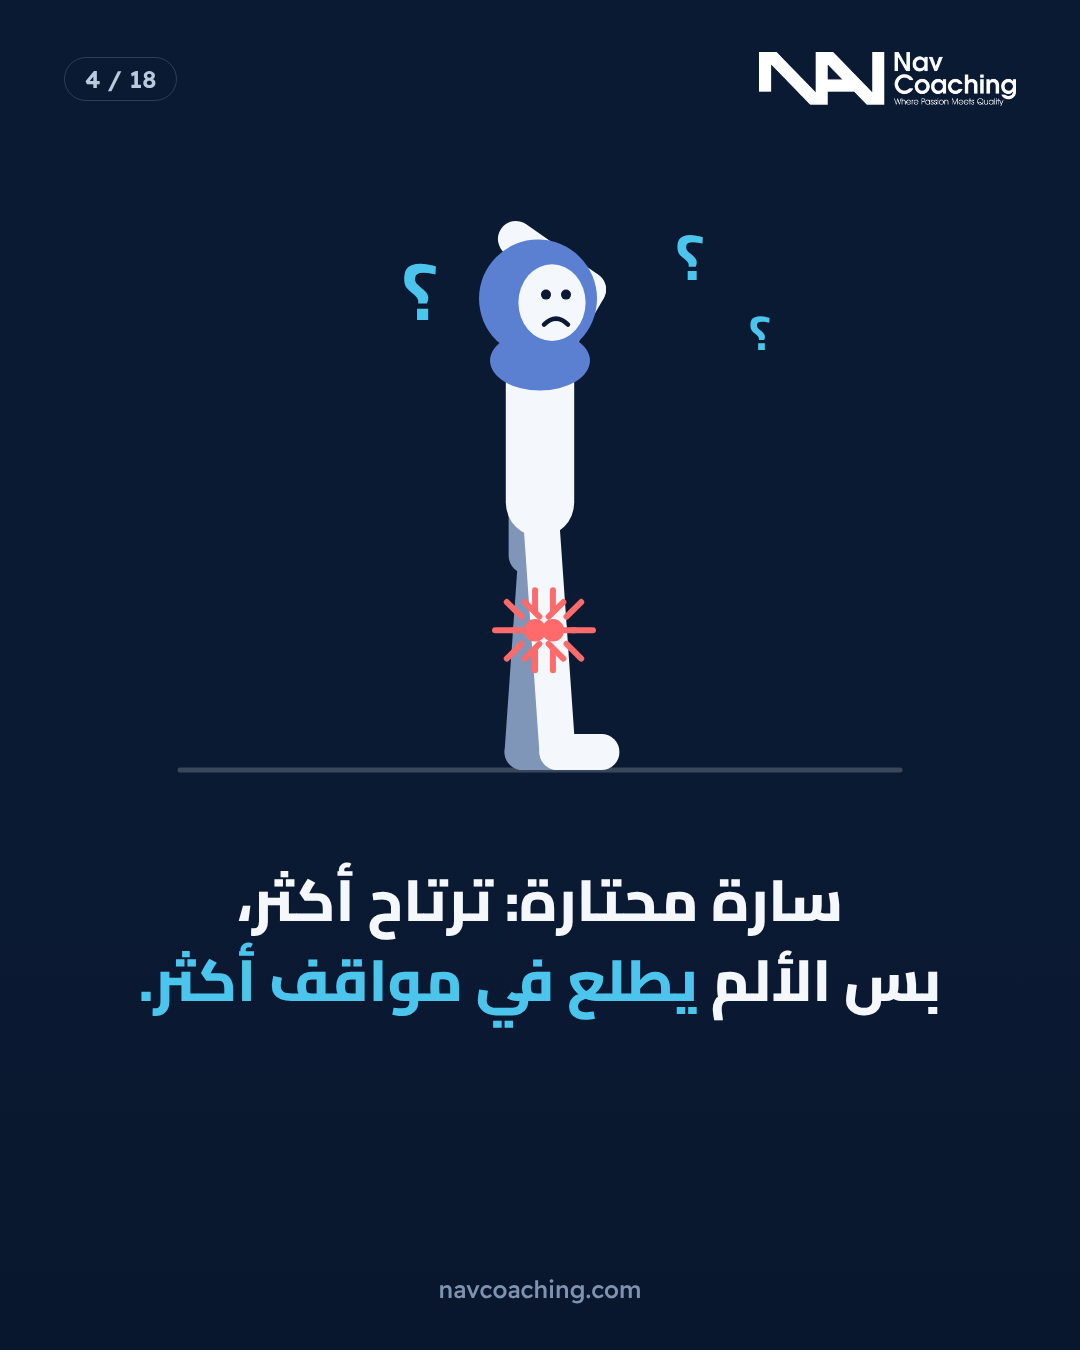
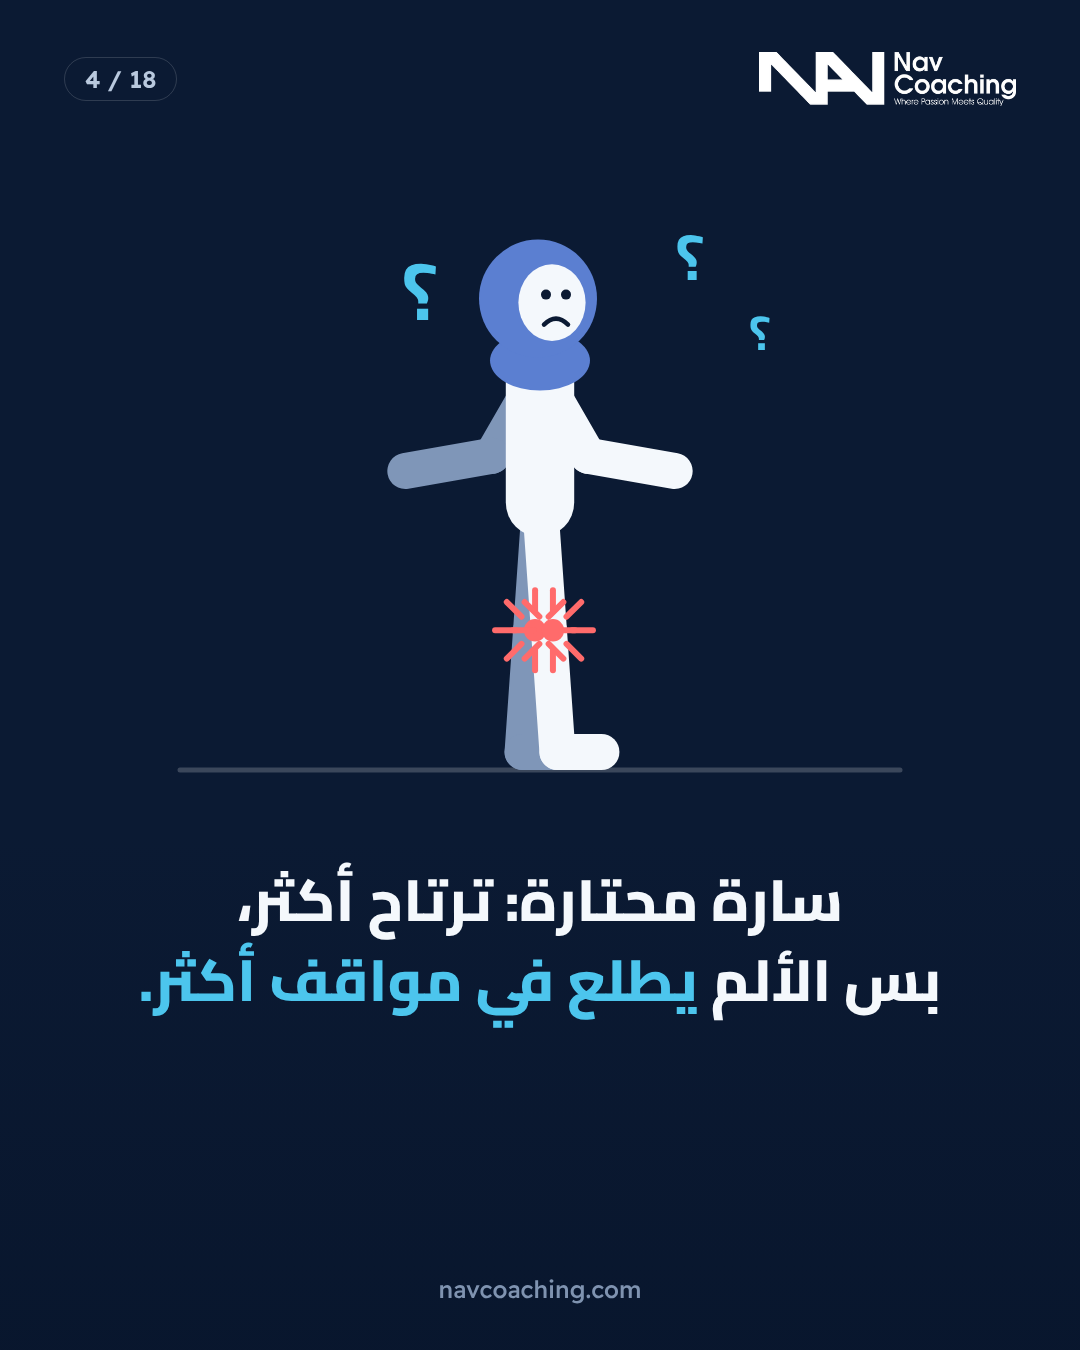
Knee carousel: promise on slide 1, save prompt after the ladder, larger chart/ladder labels
Also a shrug pose on slide 4 and Sara walking on the closing slide.

Claude-Session: https://claude.ai/code/session_014K8VAaJoHdbEmLTmDkRNee

diff --git a/instagram/knee/slides.html b/instagram/knee/slides.html
@@ -81,7 +81,7 @@ const ART={
  lungePain:()=>floorLine(F)+figure({x:520,floor:F,t:4,legs:[[-38,-92],[80,0]],arms:[[-6,8],[12,20]],pain:[1],mood:'sad'}).svg,
  sitPain:()=>{const f=figure({x:520,floor:F,t:-4,legs:[[86,0],[90,0]],arms:[[30,80],[40,85]],pain:[1],mood:'sad'});
    const seatY=f.H.y+22;return floorLine(F)+`<rect x="${f.H.x-70}" y="${seatY}" width="150" height="18" rx="6" fill="#40597f"/><rect x="${f.H.x-80}" y="${seatY-200}" width="18" height="${200+18}" rx="6" fill="#40597f"/><line x1="${f.H.x-55}" y1="${seatY+18}" x2="${f.H.x-55}" y2="${F}" stroke="#40597f" stroke-width="12"/><line x1="${f.H.x+60}" y1="${seatY+18}" x2="${f.H.x+60}" y2="${F}" stroke="#40597f" stroke-width="12"/>`+f.svg+clock(800,150)},
- confused:()=>floorLine(F)+figure({x:540,floor:F,t:0,legs:[[-4,-4],[4,4]],arms:[[-8,0],[150,235]],pain:[0,1],mood:'sad',s:1}).svg+label(420,170,'؟','#4cc5ed',80)+label(690,130,'؟','#4cc5ed',64)+label(760,200,'؟','#4cc5ed',48),
+ confused:()=>floorLine(F)+figure({x:540,floor:F,t:0,legs:[[-4,-4],[4,4]],arms:[[-30,-80],[30,80]],pain:[0,1],mood:'sad',s:1}).svg+label(420,170,'؟','#4cc5ed',80)+label(690,130,'؟','#4cc5ed',64)+label(760,200,'؟','#4cc5ed',48),
  stairs:()=>{const st=`<path d="M200 ${F} L200 ${F-90} L380 ${F-90} L380 ${F-180} L560 ${F-180} L560 ${F-270} L900 ${F-270} L900 ${F}z" fill="#1d3358" stroke="#ffffff40" stroke-width="3"/>`;
    const f=figure({x:390,floor:F-90,t:14,legs:[[-20,-12],[62,-8]],arms:[[30,60],[-20,-10]],pain:[0,1],mood:'sad',s:1});return st+f.svg},
  save:()=>{const f=figure({x:500,floor:F,t:0,legs:[[-4,-4],[4,4]],arms:[[-6,0],[120,130]],mood:'flat',s:1.05});
@@ -91,18 +91,18 @@ const ART={
    g+=`<path d="M${cx+r*Math.cos(35*R)} ${cy-r*Math.sin(35*R)} A${r} ${r} 0 0 1 ${cx+r} ${cy}" fill="none" stroke="#ff6b6b" stroke-width="34" stroke-linecap="round"/>`;
    const a=22*R;g+=`<line x1="${cx}" y1="${cy}" x2="${cx+(r-60)*Math.cos(a)}" y2="${cy-(r-60)*Math.sin(a)}" stroke="#f4f8fc" stroke-width="16" stroke-linecap="round"/><circle cx="${cx}" cy="${cy}" r="26" fill="#f4f8fc"/>`;
    g+=label(cx+r,cy+70,'عالية')+label(cx-r,cy+70,'منخفضة')+label(cx,cy+140,'حساسية الركبة','#f4f8fc',40);return g},
- chart:()=>{let g='';const x0=230,x1=900,y0=110,y1=600;
+ chart:()=>{let g='';const x0=250,x1=900,y0=110,y1=600;
    g+=`<line x1="${x0}" y1="${y0}" x2="${x0}" y2="${y1}" stroke="#ffffff55" stroke-width="5"/><line x1="${x0}" y1="${y1}" x2="${x1}" y2="${y1}" stroke="#ffffff55" stroke-width="5"/>`;
    const lv=[['السكوات',230],['الدرج',380],['الجلوس',500]];
-   lv.forEach(([t,y])=>{g+=`<line x1="${x0}" y1="${y}" x2="${x1}" y2="${y}" stroke="#ffffff35" stroke-width="3" stroke-dasharray="12 12"/>`+`<text x="${x0-18}" y="${y+12}" text-anchor="end" font-family="Cairo" font-weight="700" font-size="30" fill="#b9c9de">${t}</text>`});
+   lv.forEach(([t,y])=>{g+=`<line x1="${x0}" y1="${y}" x2="${x1}" y2="${y}" stroke="#ffffff35" stroke-width="3" stroke-dasharray="12 12"/>`+`<text x="${x0-18}" y="${y+12}" text-anchor="end" direction="ltr" font-family="Cairo" font-weight="700" font-size="36" fill="#b9c9de">${t}</text>`});
    g+=`<path d="M${x0+10} 135 C 480 150, 640 380, ${x1-20} 585" fill="none" stroke="#4cc5ed" stroke-width="12" stroke-linecap="round"/>`;
    g+=burst(390,230,34)+burst(612,380,34)+burst(766,500,34);
-   g+=label(700,120,'قدرة ركبتك على التحمّل','#4cc5ed',32)+label((x0+x1)/2,y1+60,'كل ما طالت مدة تجنّب الحمل ←','#b9c9de',32);return g},
- ladder:()=>{let g='';const n=7,w=96,h=58,base=600,xr=890;const names=['ثبات<br>بالدفع','ثبات<br>بالمقاومة','نزول<br>بطيء','مدى<br>قصير','مدى<br>أعمق','سرعة','قفز<br>واتجاهات'];
+   g+=label(690,118,'قدرة الركبة على التحمّل','#4cc5ed',36)+label((x0+x1)/2,y1+62,'كل ما طالت مدة تجنّب الحمل ←','#b9c9de',36);return g},
+ ladder:()=>{let g='';const n=7,w=112,h=58,base=610,xr=950;const names=['ثبات<br>بالدفع','ثبات<br>بالمقاومة','نزول<br>بطيء','مدى<br>قصير','مدى<br>أعمق','سرعة','قفز<br>واتجاهات'];
    let d=`M${xr} ${base}`;for(let i=0;i<n;i++){const x=xr-i*w;d+=` L${x} ${base-(i+1)*h} L${x-w} ${base-(i+1)*h}`}d+=` L${xr-n*w} ${base} z`;
    g+=`<path d="${d}" fill="#1d3358" stroke="#ffffff40" stroke-width="3"/>`;
-   for(let i=0;i<n;i++){const x=xr-i*w-w/2,y=base-(i+1)*h;g+=label(x,y+44,i+1,'#4cc5ed',34);
-     names[i].split('<br>').forEach((t,j,a)=>{g+=label(x,y-20-(a.length-1-j)*30,t,'#f4f8fc',24)})}
+   for(let i=0;i<n;i++){const x=xr-i*w-w/2,y=base-(i+1)*h;g+=label(x,y+44,i+1,'#4cc5ed',38);
+     names[i].split('<br>').forEach((t,j,a)=>{g+=label(x,y-18-(a.length-1-j)*36,t,'#f4f8fc',30)})}
    return g},
  step1:()=>{const f=figure({x:520,floor:F,t:4,legs:[[-38,-92],[80,0]],arms:[[120,200],[130,215]],work:[1],mood:'flat',sweat:1});
    const by=f.head.y+30;return floorLine(F,160,920)+`<line x1="300" y1="80" x2="300" y2="${F}" stroke="#40597f" stroke-width="16"/><line x1="790" y1="80" x2="790" y2="${F}" stroke="#40597f" stroke-width="16"/><line x1="250" y1="${by}" x2="840" y2="${by}" stroke="#b9c9de" stroke-width="16" stroke-linecap="round"/><rect x="270" y="${by-12}" width="60" height="24" rx="6" fill="#4cc5ed"/><rect x="760" y="${by-12}" width="60" height="24" rx="6" fill="#4cc5ed"/>`+f.svg+lock(870,by-30)+`<line x1="700" y1="${by+150}" x2="700" y2="${by+40}" stroke="#4cc5ed" stroke-width="7"/><path d="M682 ${by+58} L700 ${by+28} L718 ${by+58}z" fill="#4cc5ed"/>`+label(700,by+200,'ادفعي','#4cc5ed',32)},
@@ -124,15 +124,15 @@ function lock(x,y){return `<rect x="${x-26}" y="${y}" width="52" height="44" rx=
 
 const LOGO='<img src="../../brand/logo-white.webp">';
 const S=[
- ['squatPain','ركبة سارة صارت توجعها في السكوات…<br><em>فوقّفت السكوات.</em>'],
+ ['squatPain','ركبة سارة صارت توجعها في السكوات…<br><em>فوقّفت السكوات.</em>','واللي سوّته زاد الألم بدل ما يخففه… والحل بآخر البوست ←'],
  ['lungePain','بعدها صارت توجعها في الطعنات والليق برس…<br><em>فوقّفتهم بعد.</em>'],
  ['sitPain','بعد شهر، صارت توجعها<br><em>إذا طوّلت وهي جالسة.</em>'],
  ['confused','سارة محتارة: ترتاح أكثر،<br>بس الألم <em>يطلع في مواقف أكثر.</em>'],
  ['stairs','وبعد كم أسبوع، صار <em>النزول من الدرج</em><br>يزعجها… <em>والطلوع</em> بعد.'],
- ['save','تحسين إنها قصتك؟<br><em>احفظي البوست</em> عشان يكون الحل عندك.'],
- ['gauge','ركبتها <em>ما تضررت أكثر</em>… صارت أحسس.','كل ما خفّفت الحمل عليها، صار جسمها يتعامل مع الحركات العادية كأنها خطر.'],
+  ['gauge','ركبتها <em>ما تضررت أكثر</em>… صارت أحسس.','كل ما خفّفت الحمل عليها، صار جسمها يتعامل مع الحركات العادية كأنها خطر.'],
  ['chart','العضلات والأوتار <em>تتكيّف مع الحمل</em> اللي تاخذه.','وإذا تجنّبتيه، تقل قدرتها… لين تصير الأشياء اليومية ثقيلة عليها.'],
- ['ladder','الحل مو راحة أكثر…<br><em>رجّع الحمل درجة درجة.</em>'],
+ ['ladder','الحل مو راحة أكثر…<br><em>رجّعي الحمل درجة درجة.</em>'],
+ ['save','تحسين إنها قصتك؟<br><em>احفظي البوست</em> عشان ترجعين للخطوات وقت ما تحتاجينها.'],
  ['step1','الخطوة 1: <em>ثبات بالدفع</em>','ادفعي بقوة في شي ما يتحرك، مثل طعنة تدفعين فيها بار مقفول.','4–5 مرات · 30–45 ثانية'],
  ['step2','الخطوة 2: <em>ثبات بالمقاومة</em>','اثبتي في وضعية والوزن يحاول ينزّلك، مثل الجلوس على الجدار.','4–5 مرات · 30–45 ثانية'],
  ['step3','الخطوة 3: <em>نزول بطيء</em>','انزلي ببطء وتحكّم، واطلعي بالطريقة اللي تريحك.','النزول 3–5 ثواني'],
@@ -157,6 +157,7 @@ html+=`<section class="s"><div class="top">${LOGO}<span class="n">${N-1} / ${N}<
 html+=`<section class="s"><div class="top">${LOGO}<span class="n">${N} / ${N}</span></div>
 <div class="big"><h1>ركبتك تحتاج<br><em>خطة تمشي معك؟</em></h1>
 <p style="margin-top:40px;font:500 40px/1.65 'IBM Plex Sans Arabic';color:#b9c9de">نبني لك برنامج يرجّع الحمل لركبتك بالتدريج، ونعدّله أسبوعيًا حسب إحساسك وتقدّمك.</p></div>
+<div class="art" style="top:640px;height:440px"><svg viewBox="0 0 1080 440">${floorLine(380,330,750)+figure({x:520,floor:380,t:4,legs:[[-22,-10],[26,12]],arms:[[-26,-12],[28,18]],mood:'happy',s:0.75}).svg}</svg></div>
 <div class="cta"><b>ابدئي برنامجك ←</b><span>navcoaching.com</span></div>
 <div class="foot" style="color:#b9c9de">احفظي البوست · أرسليه لوحدة ركبتها توجعها</div></section>`;
 document.write(html);
